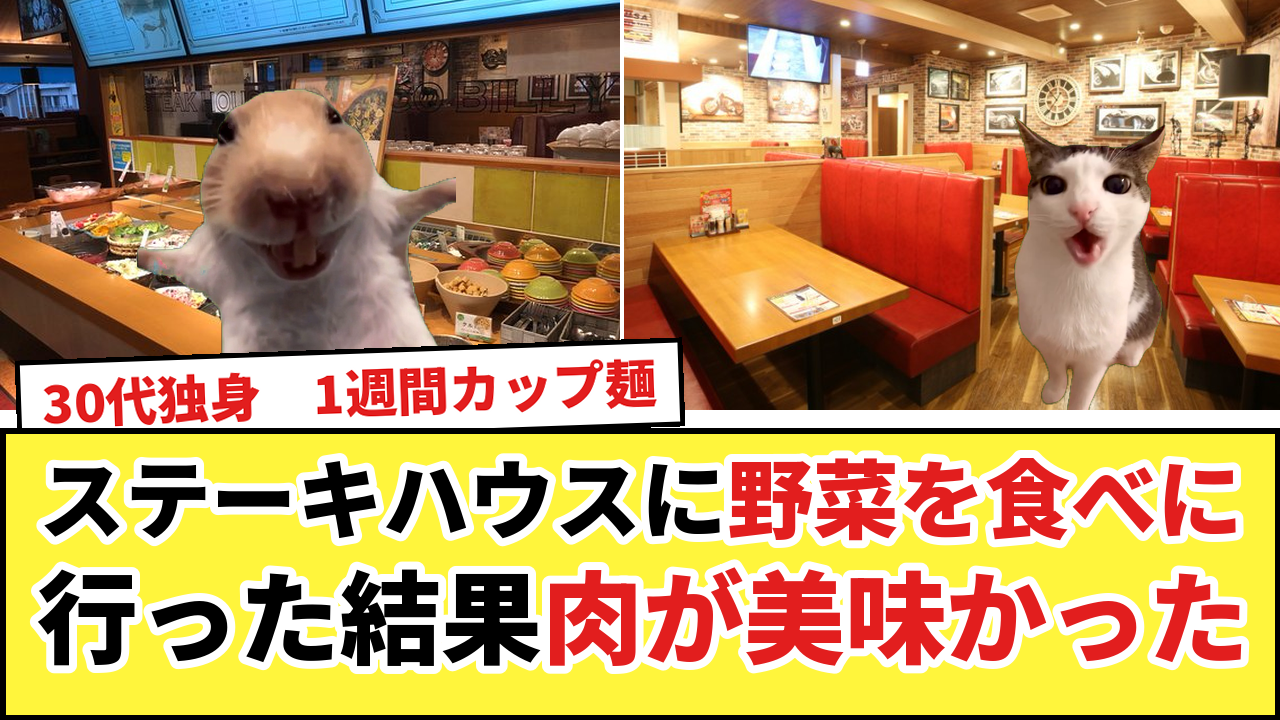
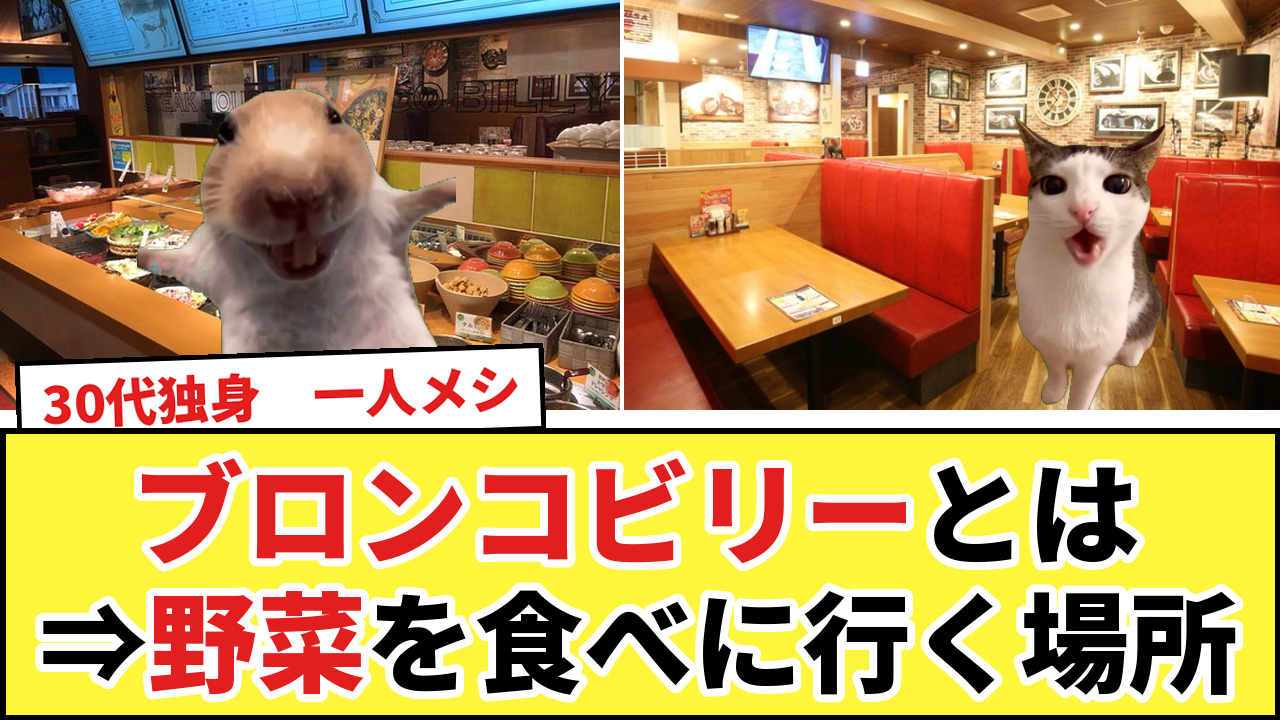
Bronco thumb A: ブロンコビリーとは⇒野菜を食べに行く場所
Claude-Session: https://claude.ai/code/session_011g9CsrfFD5YswfNSvNDW39

Changed region(s): [[0.0, 0.4583, 1.0, 0.9778], [0.0938, 0.4889, 0.1875, 0.5806], [0.0312, 0.55, 0.0625, 0.5806]]

diff --git a/catmeme/make_thumb_bronco_ikea_raden.py b/catmeme/make_thumb_bronco_ikea_raden.py
@@ -17,8 +17,8 @@ def bronco():
     T.type_a("jidaraku_06_bronco_thumb_a.png", "b05_salad_bar", "b04_table",
              ("happy_hamster_open_arms", 1.0, 300, 410, 330, False),
              [("eat_crunchy_cat_luna", 1.0, 1100, 410, 320, True)],
-             "30代独身　1週間カップ麺",
-             [("ステーキハウスに", BK), ("野菜を食べに", R)], [("行った結果", BK), ("肉が美味かった", R)], split=620, size=104)
+             "30代独身　一人メシ",   # 11/2 ユーザー指定
+             [("ブロンコビリー", R), ("とは", BK)], [("⇒", BK), ("野菜", R), ("を食べに行く場所", BK)], split=620, size=112)
     T.type_b("jidaraku_06_bronco_thumb_b.png",
              [("bg25_office_desk", [("despair_dramatic_kitten", 0.8, 160, 470, 320, False)]),
               ("b05_salad_bar", [("happy_hamster_open_arms", 1.0, 160, 470, 300, False)]),
